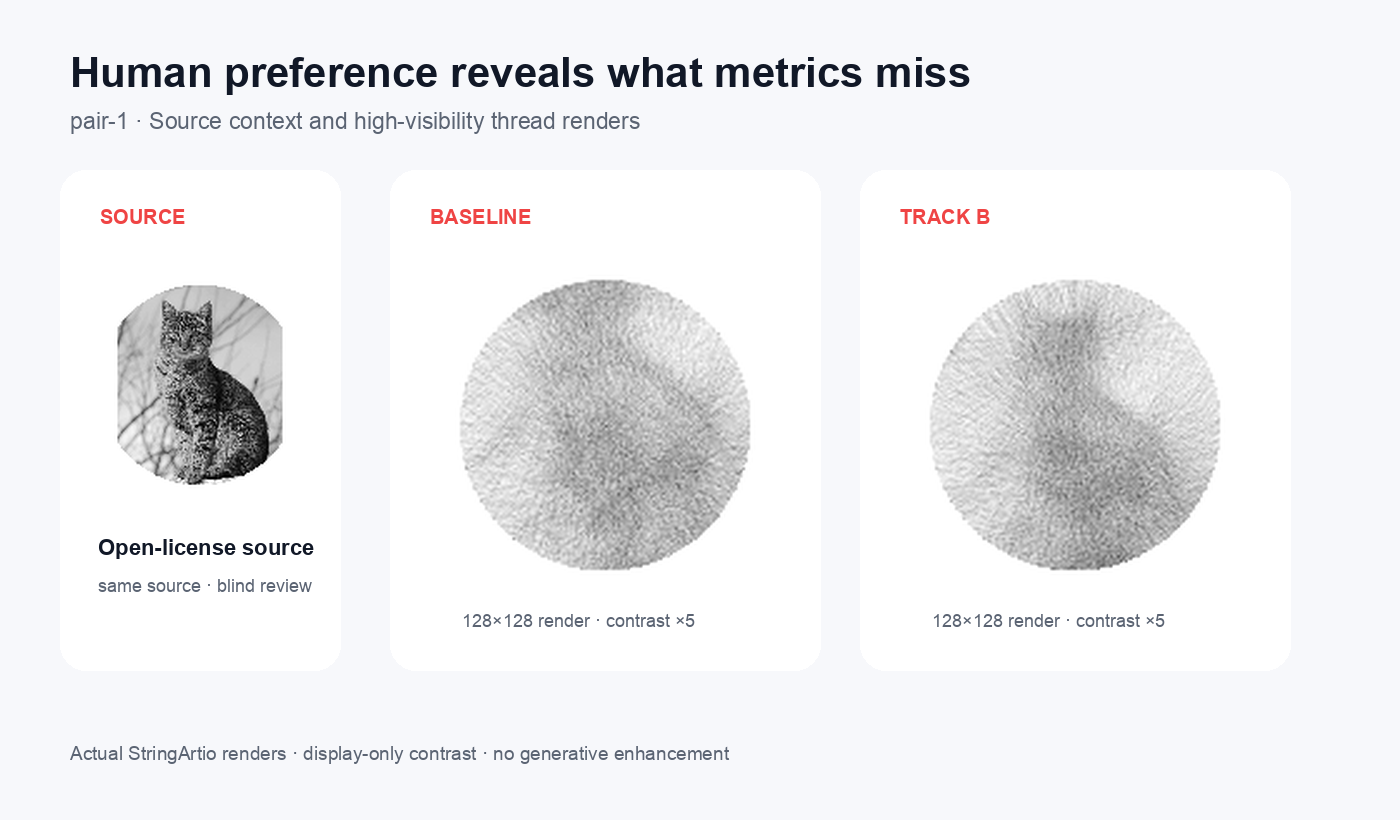
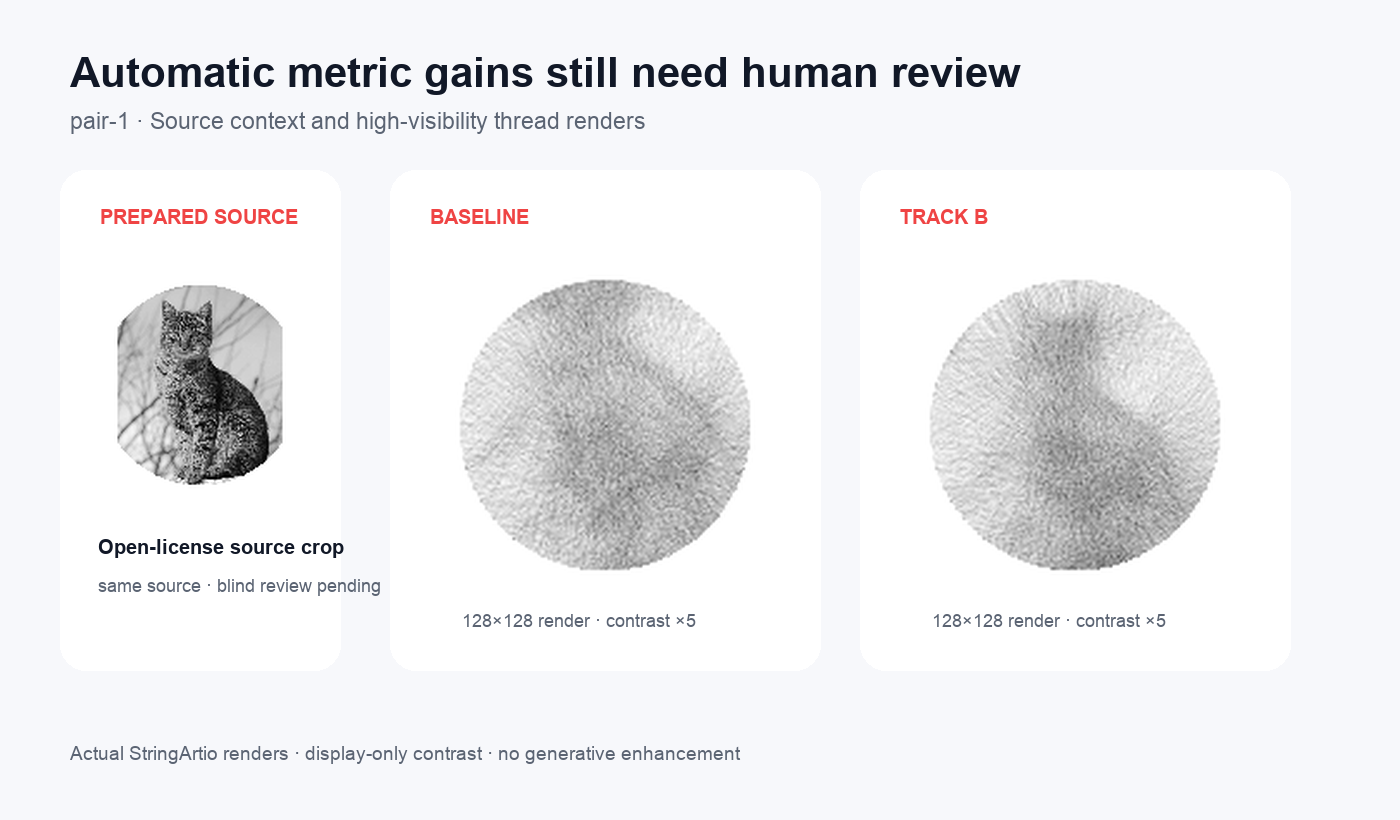
Clarify pending review status in gallery

diff --git a/scripts/build_gallery_assets.py b/scripts/build_gallery_assets.py
@@ -53,7 +53,7 @@ def build_source_render_panel(pair_id, source, before, after):
 
     draw.text(
         (70, 48),
-        "Human preference reveals what metrics miss",
+        "Automatic metric gains still need human review",
         fill=title_color,
         font=font(42, bold=True),
     )
@@ -65,26 +65,31 @@ def build_source_render_panel(pair_id, source, before, after):
     )
 
     cards = (
-        (60, 280, "SOURCE", source, 1),
+        (60, 280, "PREPARED SOURCE", source, 1),
         (390, 430, "BASELINE", before, 5),
         (860, 430, "TRACK B", after, 5),
     )
     for x, width, label, image, ink_scale in cards:
         draw.rounded_rectangle((x, 170, x + width, 670), radius=26, fill=card)
         draw.text((x + 40, 205), label, fill=accent, font=font(20, bold=True))
-        size = 220 if label == "SOURCE" else 320
+        size = 220 if label == "PREPARED SOURCE" else 320
         image_x = x + (width - size) // 2
-        image_y = 275 if label == "SOURCE" else 265
-        displayed = image if label == "SOURCE" else darken_ink(image, ink_scale)
+        image_y = 275 if label == "PREPARED SOURCE" else 265
+        displayed = image if label == "PREPARED SOURCE" else darken_ink(image, ink_scale)
         paste_circle(canvas, displayed, (image_x, image_y), size)
-        if label == "SOURCE":
+        if label == "PREPARED SOURCE":
             draw.text(
                 (x + 38, 535),
-                "Open-license source",
+                "Open-license source crop",
                 fill=title_color,
-                font=font(22, bold=True),
+                font=font(20, bold=True),
             )
-            draw.text((x + 38, 575), "same source · blind review", fill=muted, font=font(18))
+            draw.text(
+                (x + 38, 575),
+                "same source · blind review pending",
+                fill=muted,
+                font=font(18),
+            )
         else:
             draw.text(
                 (x + 72, 610),

diff --git a/docs/case-study.md b/docs/case-study.md
@@ -109,33 +109,35 @@ for cat (0.551531→0.559426), +5.86% for portrait (0.519201→0.549611),
 +1.40% for complex background (0.557362→0.565161), and +13.81% for backlight
 (0.396883→0.451710). These metric gains still require blind review.
 
-Each panel places the original source beside the Baseline and Track B thread
-renders. Display contrast is increased 5× so the 128×128 thread geometry remains
-legible at documentation scale; the source pixels, render geometry, and evaluation
-data are unchanged. The linked detail views retain the fixed center crop and the
-12× absolute pixel difference. No generated detail was added.
+Each panel places a prepared source crop extracted from the diagnostic image
+beside the Baseline and Track B thread renders. The crop is resized and circularly
+masked for this layout. Render display contrast is increased 5× so the 128×128
+thread geometry remains legible at documentation scale; render geometry and
+evaluation data are unchanged. The linked detail views retain the fixed center
+crop and the 12× absolute pixel difference. No generated detail was added, and
+blind review of these comparisons is still pending.
 
 ### Cat
 
-![Original cat with Baseline and Track B thread renders](../portfolio/assets/pair-1-source-render-comparison.png)
+![Prepared cat source crop with Baseline and Track B thread renders; blind review pending](../portfolio/assets/pair-1-source-render-comparison.png)
 
 [Fixed crop and pixel difference](../portfolio/assets/pair-1-detail-diff.png)
 
 ### Portrait
 
-![Original portrait with Baseline and Track B thread renders](../portfolio/assets/pair-2-source-render-comparison.png)
+![Prepared portrait source crop with Baseline and Track B thread renders; blind review pending](../portfolio/assets/pair-2-source-render-comparison.png)
 
 [Fixed crop and pixel difference](../portfolio/assets/pair-2-detail-diff.png)
 
 ### Complex background
 
-![Original complex-background source with Baseline and Track B thread renders](../portfolio/assets/pair-3-source-render-comparison.png)
+![Prepared complex-background source crop with Baseline and Track B thread renders; blind review pending](../portfolio/assets/pair-3-source-render-comparison.png)
 
 [Fixed crop and pixel difference](../portfolio/assets/pair-3-detail-diff.png)
 
 ### Backlight
 
-![Original backlight source with Baseline and Track B thread renders](../portfolio/assets/pair-7-source-render-comparison.png)
+![Prepared backlight source crop with Baseline and Track B thread renders; blind review pending](../portfolio/assets/pair-7-source-render-comparison.png)
 
 [Fixed crop and pixel difference](../portfolio/assets/pair-7-detail-diff.png)
 
